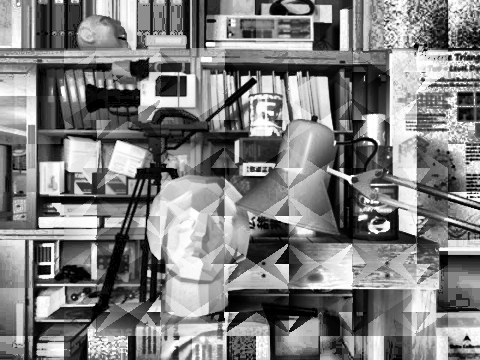
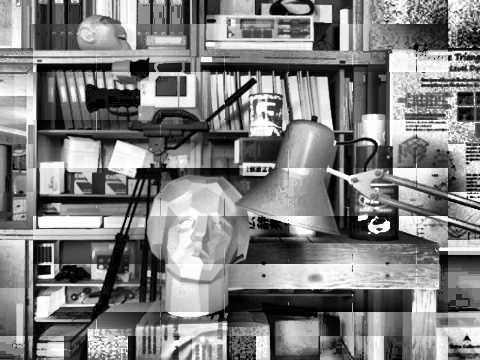
It works!!!

Changed region(s): [[0.0625, 0.0611, 0.9375, 0.9472], [0.0625, 0.3056, 0.1562, 0.5194], [0.625, 0.0611, 0.6562, 0.1222]]

diff --git a/Assignment 1/adaptive_hist_eq.py b/Assignment 1/adaptive_hist_eq.py
@@ -1,5 +1,6 @@
 import numpy as np
 from global_hist_eq import get_equalization_transform_of_img
+from PIL import Image
 
 def calculate_eq_transformations_of_regions(img_array: np.ndarray,
 region_len_h: int,region_len_w: int):
@@ -21,7 +22,8 @@ region_len_h: int,region_len_w: int):
 
             region = img_array[top_left_y:bottom_right_y, top_left_x:bottom_right_x]
             region_to_eq_transform[(top_left_y,top_left_x)] = get_equalization_transform_of_img(region) 
-
+    # print(region_to_eq_transform.keys())
+    # print(region_to_eq_transform.__len__())
     return region_to_eq_transform
 
 
@@ -47,17 +49,19 @@ def perform_adaptive_hist_equalization(img_array: np.ndarray,region_len_h: int,r
         for j in range(0, W, region_len_w):
              top_left_corners.append((i, j))
     centers = []
-    for top_left_y, top_left_x in top_left_corners:
-        center_y = top_left_y + region_len_h // 2
-        center_x = top_left_x + region_len_w // 2
+    for i in top_left_corners:
+        center_y = i[0] + region_len_h // 2
+        center_x = i[1] + region_len_w // 2
         centers.append((center_y, center_x))
+    # print("centers",centers)
+    # print(len(centers))
     
     for y in range(H):
         for x in range(W):
             block_j = y // region_len_h
             block_i = x // region_len_w
 
-            if (block_i == 0 or block_i == num_blocks_w - 1) or (block_j == 0 or block_j == num_blocks_h - 1):
+            if (y < region_len_h // 2) or (x < region_len_w // 2) or (y >= H - region_len_h // 2) or (x >= W - region_len_w // 2):
                 # Pixel is in the outer region of a block
                 pixel_value = img_array[y, x]
                 transform = transformation_dict[(block_j * region_len_h, block_i * region_len_w)]
@@ -65,42 +69,49 @@ def perform_adaptive_hist_equalization(img_array: np.ndarray,region_len_h: int,r
             else:
                 block_center_y = block_j * region_len_h + region_len_h // 2
                 block_center_x = block_i * region_len_w + region_len_w // 2
+                contextual_neighbours = find_four_closest_centers(centers, (y, x))
+                w_left, w_right = None, None
+                h_up, h_down = None, None
 
-                block_j = y // region_len_h
-                block_i = x // region_len_w
-
-                contexial_neighbours = find_four_closest_centers(centers, (y, x))
-                for i in contexial_neighbours:
-                    if i[1] < x:
+                for i in contextual_neighbours:
+                    if i[1] < x and (w_left is None or i[1] > w_left):
                         w_left = i[1]
-                    if i[1] >= x:
+                    if i[1] >= x and (w_right is None or i[1] < w_right):
                         w_right = i[1]
-                    if i[0] > y:
+                    if i[0] > y and (h_down is None or i[0] < h_down):
+                        h_down = i[0]
+                    if i[0] <= y and (h_up is None or i[0] > h_up):
                         h_up = i[0]
-                    if i[0] <= y:
-                        h_down = i[0] 
-              
-                # Calculate interpolation weights
-                a = (x - w_left ) / (w_right - w_left)
-                b = (y - h_down ) / (h_up - h_down)
-
-                # Interpolate the pixel value using the transformation functions
-                T_tl = transformation_dict.get((h_up - (region_len_h // 2), w_left - (region_len_w //2)), np.zeros(256))
-                T_tr = transformation_dict.get((h_up - (region_len_h // 2), w_right - (region_len_w // 2)), np.zeros(256))
-                T_bl = transformation_dict.get((h_down - (region_len_h // 2), w_left - (region_len_w // 2)), np.zeros(256))
-                T_br = transformation_dict.get((h_down -  (region_len_h // 2), w_right - (region_len_w // 2)), np.zeros(256))
                 
-                pixel_value = img_array[y, x]
-                interpolated_value = (
-                    a*b*T_tl[pixel_value] + a*(1-b)*T_tr[pixel_value] + 
-                    (1-a)*b*T_bl[pixel_value] + (1-a)*(1-b)*T_br[pixel_value]
+                if w_left is None or w_right is None or h_up is None or h_down is None:
+                    transform = transformation_dict[(block_j * region_len_h, block_i * region_len_w)]
+                    equalized_img[y, x] = transform[pixel_value]
+                    # raise ValueError("Could not find four closest centers for pixel ({}, {})".format(y, x))
+                
+                else:
+                # Calculate interpolation weights
+                    a = (x - w_left) / (w_right - w_left) if w_right != w_left else 0.5
+                    b = (y - h_down) / (h_up - h_down) if h_up != h_down else 0.5
 
-                )
-                # Assign the interpolated value to the output image
-                equalized_img[y, x] = interpolated_value
+                    # Interpolate the pixel value using the transformation functions
+                    T_tl = transformation_dict.get((h_down - (region_len_h // 2), w_left - (region_len_w //2)), np.zeros(256))
+                    T_tr = transformation_dict.get((h_down - (region_len_h // 2), w_right - (region_len_w // 2)), np.zeros(256))
+                    T_bl = transformation_dict.get((h_up - (region_len_h // 2), w_left - (region_len_w // 2)), np.zeros(256))
+                    T_br = transformation_dict.get((h_up -  (region_len_h // 2), w_right - (region_len_w // 2)), np.zeros(256))
+                    
+                    pixel_value = img_array[y, x]
+                    interpolated_value = (
+                        a * b * T_br[pixel_value] +
+                        a * (1 - b) * T_tr[pixel_value] +
+                        (1 - a) * b * T_bl[pixel_value] +
+                        (1 - a) * (1 - b) * T_tl[pixel_value]
+                    )
+                    equalized_img[y, x] = np.round(interpolated_value)
 
     return equalized_img
 
+
+calculate_eq_transformations_of_regions(np.array(Image.open("Assignment 1/input_img.png").convert("L")), 48, 64)
 
 
 

diff --git a/Assignment 1/global_hist_eq.py b/Assignment 1/global_hist_eq.py
@@ -11,15 +11,22 @@ def get_equalization_transform_of_img(img_array: np.ndarray,):
         prob[i] += 1
 
     prob = prob / len(img_array)
-
+    # print (img_array.shape)
     u = np.zeros(256)
     u = np.cumsum(prob)
     y = np.round((u - u.min())/(1 - u.min()) * (L - 1))
     y = y.astype(np.uint8)
-    # y.reshape(img_array.shape)
     return y
 
+def perform_global_hist_equalization(img_array: np.ndarray):
+    equalized_img = np.zeros_like(img_array)
+    equalized_img = get_equalization_transform_of_img(img_array)
+    equalized_img = equalized_img[img_array]
+    return equalized_img
 
+# img = perform_global_hist_equalization(np.array(Image.open("Assignment 1/input_img.png").convert("L")))
+# img = Image.fromarray(img)
+# img.show()
 
         
 

diff --git a/Assignment 1/demo.py b/Assignment 1/demo.py
@@ -8,7 +8,7 @@ from adaptive_hist_eq import calculate_eq_transformations_of_regions, perform_ad
 # are defined in adaptive_hist_eq and imported correctly
 
 # Load the image and convert it to a grayscale NumPy array
-filename = "./input_img.png"
+filename = "Assignment 1/input_img.png"
 img = Image.open(filename)
 bw_img = img.convert("L")
 img_array = np.array(bw_img)
